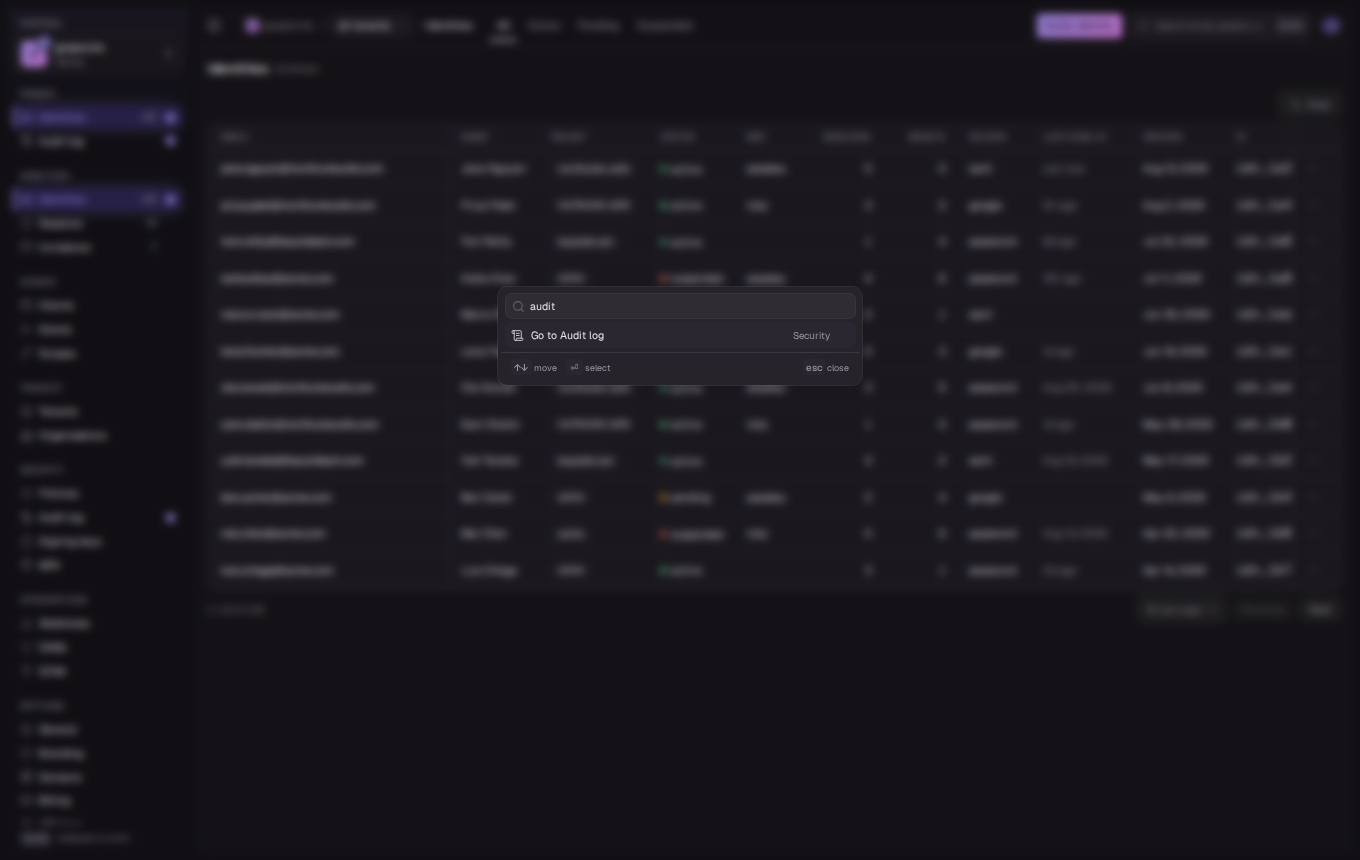
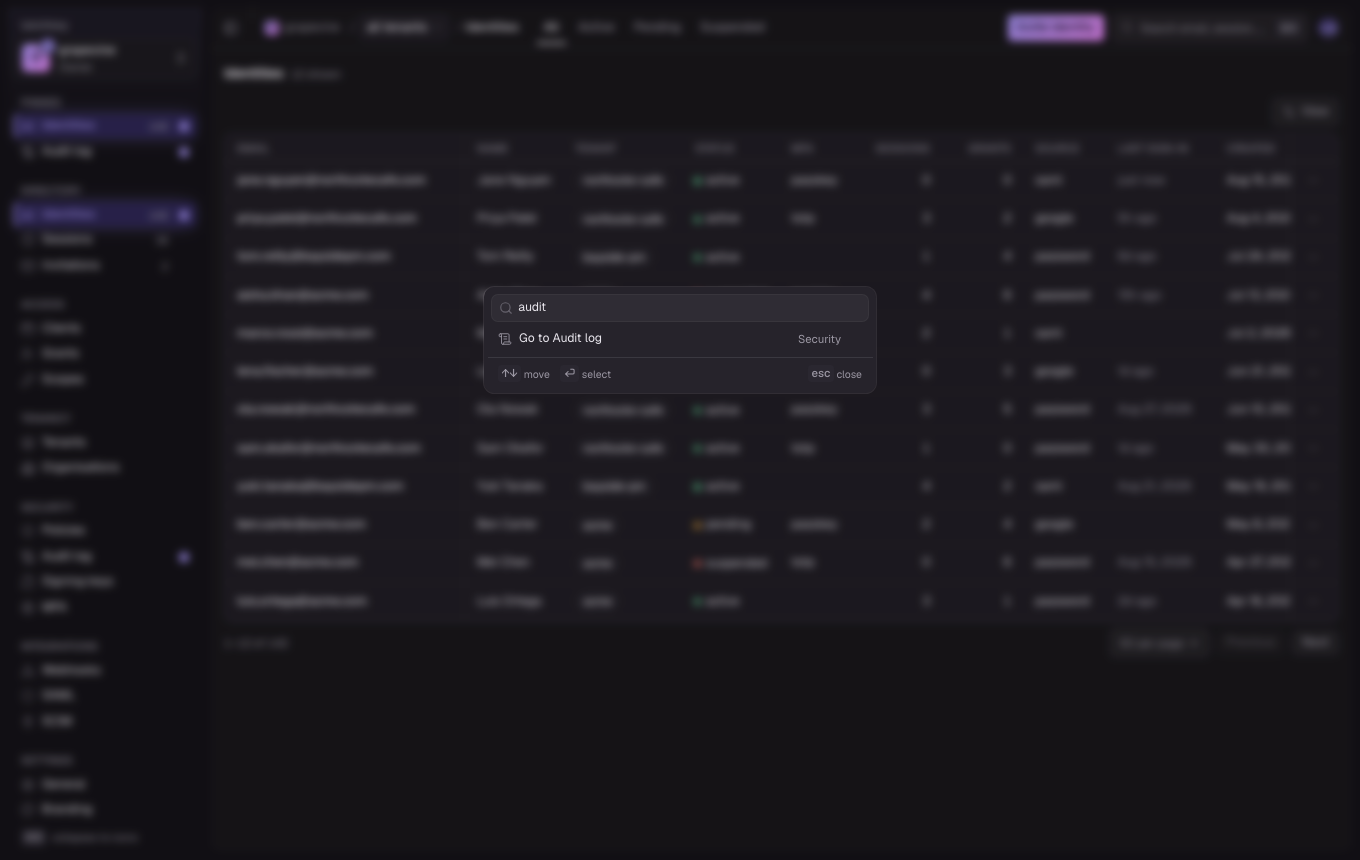
Bump the type scale one step and add wardroom, purser and foghorn accents
Body text goes 13px → 14px and every other step moves with it (2xs 12,
xs 13, md 15; base stays 16; mono identifiers 12.5 → 13.5). Line-heights
are unchanged so rows, cells and nav items keep their heights.

Three new accent files in the shape of tripline.css: wardroom cerulean
(#0A7CA6 / #50B1DC), purser moss (#688003 / #9FBC4E), foghorn fuchsia
(#BF308F / #E977BB), each with a gradient second stop and a soft tint,
placed in the gaps of the hue wheel clear of the existing accents and
the status hues. Registered in the playground and the screenshot suite;
screenshots regenerated. DESIGN.md and README updated.

Claude-Session: https://claude.ai/code/session_01Vk95dPrsCrGZf9uXzuMiyh

diff --git a/playground/app.tsx b/playground/app.tsx
@@ -4,6 +4,9 @@ import { MonitorIcon, MoonIcon, SunIcon } from "lucide-react"
 import triplineCss from "../src/theme/tripline.css?url"
 import runsheetCss from "../src/theme/runsheet.css?url"
 import latchkeyCss from "../src/theme/latchkey.css?url"
+import wardroomCss from "../src/theme/wardroom.css?url"
+import purserCss from "../src/theme/purser.css?url"
+import foghornCss from "../src/theme/foghorn.css?url"
 
 import { Button } from "@/components/ui/button"
 import { Select, SelectContent, SelectItem, SelectTrigger, SelectValue } from "@/components/ui/select"
@@ -17,24 +20,35 @@ import { TriplineScreen } from "./screens/tripline"
 import { LatchkeyScreen } from "./screens/latchkey"
 import { RunsheetScreen } from "./screens/runsheet"
 
-export type AppKey = "tripline" | "runsheet" | "latchkey"
+export type AppKey = "tripline" | "runsheet" | "latchkey" | "wardroom" | "purser" | "foghorn"
 
 const accents: Record<AppKey, string> = {
   tripline: triplineCss,
   runsheet: runsheetCss,
   latchkey: latchkeyCss,
+  wardroom: wardroomCss,
+  purser: purserCss,
+  foghorn: foghornCss,
 }
 
 const appLabels: Record<AppKey, string> = {
   tripline: "tripline",
   runsheet: "runsheet",
   latchkey: "latchkey",
+  wardroom: "wardroom",
+  purser: "purser",
+  foghorn: "foghorn",
 }
 
 const defaultPaths: Record<AppKey, string> = {
   tripline: "/o/grapevine/p/mobile/issues?env=production",
   runsheet: "/o/runsheet/t/platform-sre/runbooks",
   latchkey: "/o/northcote-cafe/tenants/all/identities",
+  // The three new consoles have no screens of their own yet; they borrow
+  // one so the accent can be seen on a full layout.
+  wardroom: "/o/grapevine/p/mobile/issues?env=production",
+  purser: "/o/runsheet/t/platform-sre/runbooks",
+  foghorn: "/o/grapevine/p/mobile/issues?env=production",
 }
 
 /** Playground state is driven by the query string so Playwright can address any screen. */
@@ -197,8 +211,8 @@ function PlaygroundBody({
   }
 
   const screenProps = { session, path, navigate, callbacks, LinkComponent: PlaygroundLink }
-  if (app === "tripline") return <TriplineScreen {...screenProps} />
-  if (app === "runsheet") return <RunsheetScreen {...screenProps} />
+  if (app === "tripline" || app === "wardroom" || app === "foghorn") return <TriplineScreen {...screenProps} />
+  if (app === "runsheet" || app === "purser") return <RunsheetScreen {...screenProps} />
   return <LatchkeyScreen {...screenProps} />
 }
 

diff --git a/src/theme/base.css b/src/theme/base.css
@@ -5,8 +5,8 @@
  * only public API; it is generated from the 12-step scale below. Status
  * scales (--success, --warning, --info, --destructive) have fixed hues and
  * are never used as an accent. The accent itself lives in one file per app
- * (tripline.css, runsheet.css, latchkey.css) and is the only thing that
- * differs between them.
+ * (tripline.css, runsheet.css, latchkey.css, wardroom.css, purser.css,
+ * foghorn.css) and is the only thing that differs between them.
  *
  * Theme states: bare :root is light, .dark on <html> is dark. ThemeProvider
  * toggles the class and color-scheme.
@@ -94,14 +94,16 @@
   --font-mono--font-feature-settings: "zero" 1, "liga" 0, "calt" 0;
   --font-heading: var(--font-sans);
 
-  /* 12 / 13 / 14 / 16, rem-based. text-sm (13px) is the app body size. */
-  --text-2xs: 0.6875rem;
+  /* 12 / 13 / 14 / 15 / 16, rem-based. text-sm (14px) is the app body size.
+     Bumped one step from 11/12/13/14 on 2026-09-14 with every line-height
+     kept, so nothing moves: rows, cells and nav items keep their heights. */
+  --text-2xs: 0.75rem;
   --text-2xs--line-height: 1rem;
-  --text-xs: 0.75rem;
+  --text-xs: 0.8125rem;
   --text-xs--line-height: 1rem;
-  --text-sm: 0.8125rem;
+  --text-sm: 0.875rem;
   --text-sm--line-height: 1.25rem;
-  --text-md: 0.875rem;
+  --text-md: 0.9375rem;
   --text-md--line-height: 1.25rem;
   --text-base: 1rem;
   --text-base--line-height: 1.5rem;
@@ -508,7 +510,7 @@
   }
 }
 
-/* DataTable density: 28 / 36 / 44px rows at 13px type. */
+/* DataTable density: 28 / 36 / 44px rows at 14px type (20px line-height). */
 [data-density="compact"] {
   --cell-py: 4px;
   --cell-px: 8px;

diff --git a/src/data/id.tsx b/src/data/id.tsx
@@ -13,7 +13,7 @@ export interface IdProps extends Omit<React.ComponentProps<"button">, "value" | 
   copy?: boolean
 }
 
-/** Identifier in mono at 12.5px with slashed zero; click copies the full value. */
+/** Identifier in mono at 13.5px with slashed zero; click copies the full value. */
 export function Id({ value, truncate = false, copy = true, className, onClick, ...props }: IdProps) {
   const [copied, setCopied] = React.useState(false)
   const announce = useAnnounce()
@@ -36,7 +36,7 @@ export function Id({ value, truncate = false, copy = true, className, onClick, .
 
   if (!copy) {
     return (
-      <code data-slot="id" title={value} className={cn("font-mono text-[12.5px] tabular-nums", className)}>
+      <code data-slot="id" title={value} className={cn("font-mono text-[13.5px] tabular-nums", className)}>
         {display}
       </code>
     )
@@ -50,7 +50,7 @@ export function Id({ value, truncate = false, copy = true, className, onClick, .
       aria-label={`Copy ${value}`}
       onClick={handleCopy}
       className={cn(
-        "group/id inline-flex max-w-full items-center gap-1 rounded-sm font-mono text-[12.5px] tabular-nums outline-none hover:text-foreground focus-visible:ring-3 focus-visible:ring-ring/50",
+        "group/id inline-flex max-w-full items-center gap-1 rounded-sm font-mono text-[13.5px] tabular-nums outline-none hover:text-foreground focus-visible:ring-3 focus-visible:ring-ring/50",
         className,
       )}
       {...props}

diff --git a/src/theme/wardroom.css b/src/theme/wardroom.css
@@ -1,0 +1,23 @@
+/* wardroom accent: cerulean. Import after base.css. */
+
+:root {
+  --primary: oklch(0.55 0.11 232); /* #0A7CA6 */
+  --primary-foreground: oklch(0.99 0.005 232);
+  --accent-2: oklch(0.63 0.105 200); /* #0E9CA2 */
+  --accent-soft: oklch(0.955 0.02 230); /* #E3F3FB */
+  --ring: var(--primary);
+  --sidebar-primary: var(--primary);
+  --sidebar-primary-foreground: var(--primary-foreground);
+  --sidebar-accent: var(--accent-soft);
+  --sidebar-accent-foreground: var(--primary);
+  --sidebar-ring: var(--primary);
+  --row-selected: color-mix(in oklab, var(--primary) 8%, transparent);
+}
+
+.dark {
+  --primary: oklch(0.72 0.11 230); /* #50B1DC */
+  --primary-foreground: oklch(0.15 0.03 230);
+  --accent-2: oklch(0.77 0.11 200); /* #4AC9D0 */
+  --accent-soft: oklch(0.29 0.05 230); /* #0A303F */
+  --row-selected: color-mix(in oklab, var(--primary) 12%, transparent);
+}

diff --git a/src/theme/foghorn.css b/src/theme/foghorn.css
@@ -1,0 +1,23 @@
+/* foghorn accent: fuchsia. Import after base.css. */
+
+:root {
+  --primary: oklch(0.56 0.2 345); /* #BF308F */
+  --primary-foreground: oklch(0.99 0.005 345);
+  --accent-2: oklch(0.63 0.18 20); /* #E1505A */
+  --accent-soft: oklch(0.955 0.025 345); /* #FDEAF4 */
+  --ring: var(--primary);
+  --sidebar-primary: var(--primary);
+  --sidebar-primary-foreground: var(--primary-foreground);
+  --sidebar-accent: var(--accent-soft);
+  --sidebar-accent-foreground: var(--primary);
+  --sidebar-ring: var(--primary);
+  --row-selected: color-mix(in oklab, var(--primary) 8%, transparent);
+}
+
+.dark {
+  --primary: oklch(0.72 0.16 345); /* #E977BB */
+  --primary-foreground: oklch(0.15 0.04 345);
+  --accent-2: oklch(0.75 0.15 20); /* #FF8386 */
+  --accent-soft: oklch(0.3 0.07 345); /* #461E36 */
+  --row-selected: color-mix(in oklab, var(--primary) 12%, transparent);
+}

diff --git a/src/theme/purser.css b/src/theme/purser.css
@@ -1,0 +1,23 @@
+/* purser accent: moss. Import after base.css. */
+
+:root {
+  --primary: oklch(0.56 0.135 122); /* #688003 */
+  --primary-foreground: oklch(0.99 0.005 122);
+  --accent-2: oklch(0.72 0.17 130); /* #80B934 */
+  --accent-soft: oklch(0.96 0.035 122); /* #EEF6DC */
+  --ring: var(--primary);
+  --sidebar-primary: var(--primary);
+  --sidebar-primary-foreground: var(--primary-foreground);
+  --sidebar-accent: var(--accent-soft);
+  --sidebar-accent-foreground: var(--primary);
+  --sidebar-ring: var(--primary);
+  --row-selected: color-mix(in oklab, var(--primary) 8%, transparent);
+}
+
+.dark {
+  --primary: oklch(0.75 0.14 122); /* #9FBC4E */
+  --primary-foreground: oklch(0.15 0.03 122);
+  --accent-2: oklch(0.82 0.16 130); /* #A1D862 */
+  --accent-soft: oklch(0.3 0.055 122); /* #293210 */
+  --row-selected: color-mix(in oklab, var(--primary) 12%, transparent);
+}

diff --git a/src/data/data-table.tsx b/src/data/data-table.tsx
@@ -410,7 +410,7 @@ function BodyCell<TData extends RowData>({ cell, pinned }: { cell: Cell<DataTabl
       className={cn(
         "border-b border-b-border-soft bg-card px-(--cell-px) py-(--cell-py) align-middle whitespace-nowrap group-hover/row:bg-[color-mix(in_srgb,var(--row-hover),var(--card))] group-data-[state=selected]/row:bg-transparent",
         meta?.numeric && "text-right tabular-nums",
-        meta?.mono && "font-mono text-[12.5px]",
+        meta?.mono && "font-mono text-[13.5px]",
         isPinned === "start" && "border-r border-r-border-soft",
         isPinned === "end" && "border-l border-l-border-soft",
         meta?.className,

diff --git a/e2e/smoke.spec.ts b/e2e/smoke.spec.ts
@@ -1,12 +1,15 @@
 import { expect, test, type Page } from "@playwright/test"
 
-const apps = ["tripline", "latchkey", "runsheet"] as const
+const apps = ["tripline", "latchkey", "runsheet", "wardroom", "purser", "foghorn"] as const
 const themes = ["light", "dark"] as const
 
 const sessions: Record<(typeof apps)[number], string> = {
   tripline: "multi",
   latchkey: "staff",
   runsheet: "single",
+  wardroom: "multi",
+  purser: "single",
+  foghorn: "multi",
 }
 
 async function open(page: Page, query: Record<string, string>) {

diff --git a/docs/DESIGN.md b/docs/DESIGN.md
@@ -46,21 +46,29 @@ from a 12-step scale layer. Plus status scales the contract lacks:
   `#1F7A4D` / `#5CC28C`; info blue. Staff/impersonation chrome is amber
   `#D97706` and is reserved for that.
 - **Accent, the only per-app variable** (`theme/tripline.css`,
-  `theme/runsheet.css`, `theme/latchkey.css`), each with a second stop
+  `theme/runsheet.css`, `theme/latchkey.css`, `theme/wardroom.css`,
+  `theme/purser.css`, `theme/foghorn.css`), each with a second stop
   for gradients (`--accent-2`) and a soft tint (`--accent-soft`):
   tripline indigo `#5B5BD6` (dark `#7C7CE8`), accent-2 `#8E4EC6` /
   `#B07CE8`, soft `#EEEEFB` / `#26244A`; runsheet teal `#12A594` /
   `#3FC29B`, accent-2 `#2FB36B` / `#5FD08A`, soft `#E0F5F0` / `#163A31`;
   latchkey violet `#6E56CF` / `#9B8AE6`, accent-2 `#B14AB8` / `#D37BE0`,
-  soft `#F1EEFB` / `#2B2450`. Map the accent onto `--primary`,
-  `--ring`, `--sidebar-primary`, `--sidebar-accent`.
+  soft `#F1EEFB` / `#2B2450`; wardroom cerulean `#0A7CA6` / `#50B1DC`,
+  accent-2 `#0E9CA2` / `#4AC9D0`, soft `#E3F3FB` / `#0A303F`; purser
+  moss `#688003` / `#9FBC4E`, accent-2 `#80B934` / `#A1D862`, soft
+  `#EEF6DC` / `#293210`; foghorn fuchsia `#BF308F` / `#E977BB`, accent-2
+  `#E1505A` / `#FF8386`, soft `#FDEAF4` / `#461E36`. The six accents sit
+  on the hue wheel away from each other and from the status hues (red,
+  amber, green, blue are never an accent). Map the accent onto
+  `--primary`, `--ring`, `--sidebar-primary`, `--sidebar-accent`.
 - **Type**: Geist Sans + Geist Mono (the `geist` npm package,
-  self-hosted); scale 12/13/14/16 rem-based with 13px app body and table
-  rows, 12px labels/metadata/badges, 14px inputs (16px on touch), 16px
-  page titles, a `Metric` style (24–32px, tabular-nums, medium);
-  `tabular-nums` on every numeric column; mono (12.5px, slashed zero,
-  ligatures off) for identifiers via an `<Id>` component. Line-height
-  1.25 single-line, 1.5 multi-line.
+  self-hosted); scale 12/13/14/15/16 rem-based with 14px app body and
+  table rows, 13px labels/metadata/badges, 12px group labels and counts,
+  15px inputs (16px on touch), 16px page titles, a `Metric` style
+  (24–32px, tabular-nums, medium); `tabular-nums` on every numeric
+  column; mono (13.5px, slashed zero, ligatures off) for identifiers via
+  an `<Id>` component. Line-height 20px for body (so row densities are
+  unchanged by the 2026-09-14 one-step bump from 13px), 1.5 multi-line.
 - **Radius**: `--radius: 0.375rem`; 6px controls/badges/inputs, 8px
   cards/popovers, 12px menus/dialogs; nav items and table rows ≤ 6px.
   Controls h-8 (32px). Focus ring 3px `--ring`.
@@ -99,9 +107,9 @@ Sidebar contents, top to bottom:
    `SidebarMenuAction`), seeded by the app, persisted per user+app in
    localStorage (`shell.pins.<app>.<userId>`), plus up to 5 Recent.
 3. 3–6 task-oriented groups with non-interactive `SidebarGroupLabel`
-   headers (11px uppercase tracking-wide muted, 16px gap between groups)
-   and 28px `SidebarMenuButton size="sm"` rows (13px, lucide 16px icon,
-   optional trailing count in mono 11px). **Two levels only**, no
+   headers (12px uppercase tracking-wide muted, 16px gap between groups)
+   and 28px `SidebarMenuButton size="sm"` rows (14px, lucide 16px icon,
+   optional trailing count in mono 12px). **Two levels only**, no
    accordions; entity sub-pages are Tabs in the action bar.
 4. `SidebarFooter`: a muted "⌘B" hint; NO account menu here.
 
@@ -117,7 +125,7 @@ Sign out).
 
 Trigger (expanded): `SidebarMenuButton size="lg"` (h-12): 32px avatar
 (logo else two-letter initials on a gradient), two truncated lines (org
-name 13px medium; role for THIS org 12px muted: Owner/Admin/Member/
+name 14px medium; role for THIS org 13px muted: Owner/Admin/Member/
 Viewer), `ChevronsUpDown` 16px only when there is something to switch to
 (other orgs, invitations, create, or staff). Pending-invitation count as
 a 16px badge on the avatar corner. Staff view-as: amber ring
@@ -143,7 +151,7 @@ ignored inside inputs/editors/open dialogs). Sections top to bottom:
 4. Recent — only when memberships > 8: last 3 visited.
 5. Your organisations (heading shows the count): current org pinned
    first with Check + `aria-selected`, rest alphabetical; 36px rows,
-   20px avatar, name, role right-aligned 12px muted; suspended orgs
+   20px avatar, name, role right-aligned 13px muted; suspended orgs
    `aria-disabled` with a status tip.
 6. Platform — staff only: "All organisations…" → the app's directory
    page; while the query is ≥ 2 chars, server results for non-member
@@ -225,7 +233,7 @@ items.
 
 - `DataTable` on TanStack Table under shadcn `Table`: `data-density=
   "compact|normal|spacious"` on the root sets `--cell-py 4/8/12px` and
-  `--cell-px 8/12/16px` (28/36/44px rows at 13px), chosen from a view
+  `--cell-px 8/12/16px` (28/36/44px rows at 14px), chosen from a view
   options menu and persisted per route in localStorage; sticky header
   inside the table's own overflow container; optional pinned first
   column (identifier) and last column (row actions); numeric columns
@@ -233,7 +241,7 @@ items.
   within 7 days then absolute via shared `formatters`. Cursor paging
   copy: "21–40 of 142", Previous / Next, page-size selector. Live
   streams append behind an "N new" pill.
-- `ListRow`: whole-row clickable, primary text + inline 12px muted
+- `ListRow`: whole-row clickable, primary text + inline 13px muted
   metadata + status glyph + trailing hover actions (tripline issue
   stream, runsheet run history).
 - `StatusDot` (6px dot + text, never colour-only), `Level` (16px icon +

diff --git a/README.md b/README.md
@@ -1,9 +1,10 @@
 # @latchkey/shell
 
-One theme and one app shell for the three consoles that sign in through
-latchkey: **tripline** (errors and performance), **runsheet** (runbooks and
-ops) and the **latchkey console** (identity admin). Each app differs only in
-its accent colour and the nav groups it passes in.
+One theme and one app shell for the consoles that sign in through latchkey:
+**tripline** (errors and performance), **runsheet** (runbooks and ops), the
+**latchkey console** (identity admin), **wardroom** (the team hub), **purser**
+(support and the customer record) and **foghorn** (outbound marketing). Each
+app differs only in its accent colour and the nav groups it passes in.
 
 React 19 · TypeScript · Tailwind v4 · shadcn/ui (radix) · lucide · cmdk ·
 sonner · TanStack Table v9. Shipped as TypeScript source; the consumer's Vite
@@ -38,7 +39,7 @@ accent file, and tell Tailwind to scan the shell's source for classes:
 ```css
 @import "tailwindcss";
 @import "@latchkey/shell/theme/base.css";
-@import "@latchkey/shell/theme/tripline.css"; /* or runsheet.css / latchkey.css */
+@import "@latchkey/shell/theme/tripline.css"; /* or runsheet / latchkey / wardroom / purser / foghorn .css */
 @source "../node_modules/@latchkey/shell/src";
 ```
 
@@ -325,8 +326,8 @@ the top of the sidebar, gradient avatar and primary button, glassy action bar,
 two-layer card shadows, the active nav ring/glow, selected-row gradient and
 status-dot halos. Components reference semantic tokens only.
 
-Tailwind extras: `text-2xs` (11px), `text-sm` is 13px (the app body size),
-`text-md` (14px, inputs), `text-metric`, `bg-accent-gradient`,
+Tailwind extras: `text-2xs` (12px), `text-xs` (13px), `text-sm` is 14px (the
+app body size), `text-md` (15px, inputs), `text-metric`, `bg-accent-gradient`,
 `shadow-float` / `shadow-lift`, and colour utilities for every token
 (`bg-success-muted`, `text-staff-foreground`, `bg-row-hover`, …).
 
